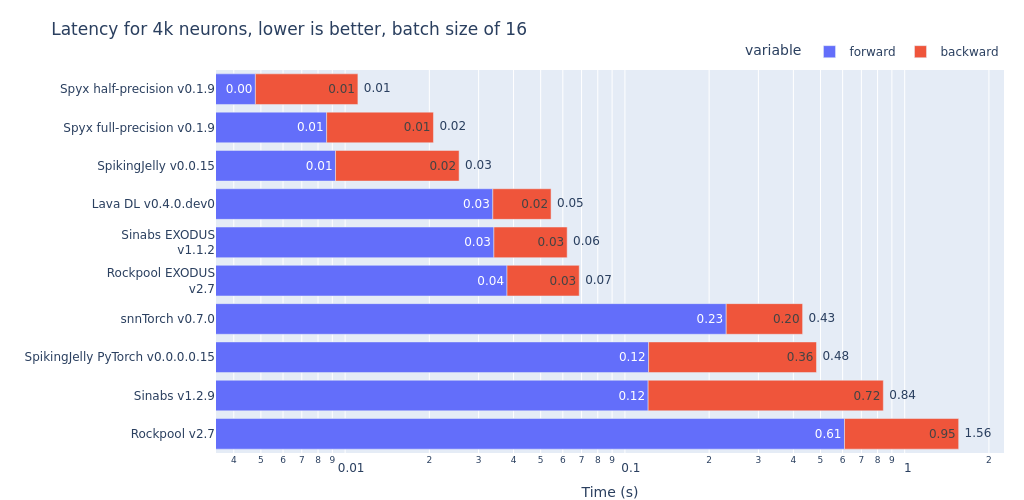
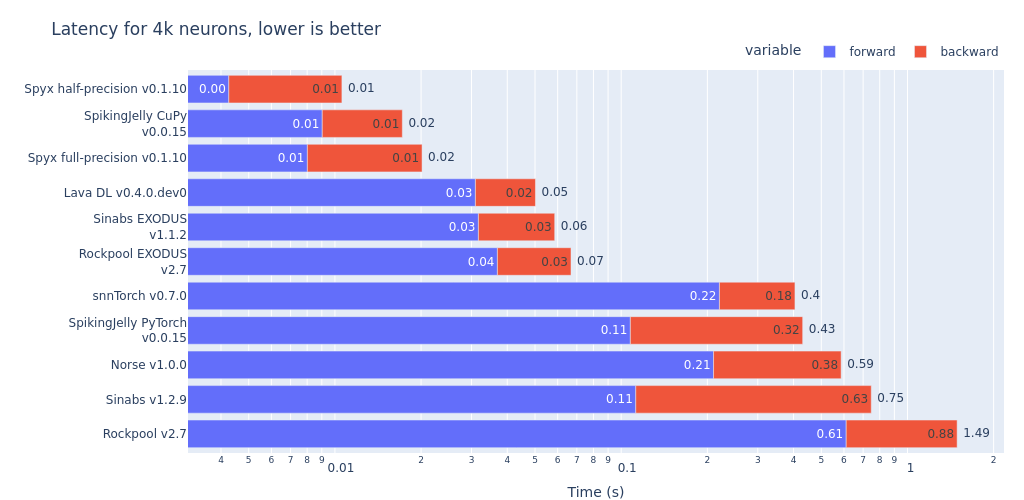
Added and deleted benchmarking images and updated requirements and benchmarking script

Changed region(s): [[0.0312, 0.12, 0.9688, 1.0], [0.375, 0.03, 0.5, 0.09]]

diff --git a/content/english/blog/spiking-neural-network-framework-benchmarking/docker/plot.py b/content/english/blog/spiking-neural-network-framework-benchmarking/docker/plot.py
@@ -12,7 +12,10 @@ df["total"] = df["forward"] + df["backward"]
 df["memory"] = df["memory"] * 1e-6
 df["framework"] = df["framework"].str.replace("<br>", " ")
 df["framework"] = df["framework"].str.replace(
-    "SpikingJelly CuPy v0.0.0.0.15", "SpikingJelly v0.0.15"
+    "SpikingJelly CuPy v0.0.0.0.15", "SpikingJelly CuPy<br>v0.0.15"
+)
+df["framework"] = df["framework"].str.replace(
+    "SpikingJelly PyTorch v0.0.0.0.15", "SpikingJelly PyTorch<br>v0.0.15"
 )
 df["framework"] = df["framework"].str.replace("Rockpool EXODUS", "Rockpool EXODUS<br>")
 df["framework"] = df["framework"].str.replace("Sinabs EXODUS", "Sinabs EXODUS<br>")
@@ -55,7 +58,7 @@ def get_runtime_figure(df, rounding=2, title=""):
         xaxis_title="Time (s)",
     )
     # increase size of facet titles
-    fig.update_annotations(font_size=14)
+    fig.update_annotations(font_size=16)
     return fig
 
 
@@ -136,24 +139,24 @@ if __name__ == "__main__":
 
     ###################
 
-    df512 = df[df["neurons"] == 512]
+    df16k = df[df["neurons"] == 16384]
 
     fig = get_runtime_figure(
-        df512, title=f"Latency for 512 neurons, lower is better{batch_str}"
+        df16k, title=f"Latency for 16k neurons, lower is better{batch_str}"
     )
 
-    fig.write_json("./fig/framework-benchmarking-512.json")
-    fig.write_image("./fig/framework-benchmarking-512.png", width=1024)  # scale=2)
+    fig.write_json("./fig/framework-benchmarking-16k.json")
+    fig.write_image("./fig/framework-benchmarking-16k.png", width=1024)  # scale=2)
     fig.write_image(
-        "./fig/framework-benchmarking-512-header.png", width=1024, height=570
+        "./fig/framework-benchmarking-16k-header.png", width=1024, height=570
     )
     fig.show()
 
     fig = get_memory_figure(
-        df512, title=f"Memory use for 512 neurons, lower is better{batch_str}"
+        df16k, title=f"Memory use for 16k neurons, lower is better{batch_str}"
     )
 
-    fig.write_json("./fig/framework-benchmarking-mem-512.json")
-    fig.write_image("./fig/framework-benchmarking-mem-512.png", width=1024)
-    fig.write_image("./fig/framework-benchmarking-mem-512-header.png", width=1600)
+    fig.write_json("./fig/framework-benchmarking-mem-16k.json")
+    fig.write_image("./fig/framework-benchmarking-mem-16k.png", width=1024)
+    fig.write_image("./fig/framework-benchmarking-mem-16k-header.png", width=1600)
     fig.show()

diff --git a/content/english/blog/spiking-neural-network-framework-benchmarking/docker/run_benchmark.py b/content/english/blog/spiking-neural-network-framework-benchmarking/docker/run_benchmark.py
@@ -499,7 +499,7 @@ benchmarks = {
 if __name__ == "__main__":
     parser = argparse.ArgumentParser()
     parser.add_argument("benchmark", choices=benchmarks.keys())
-    parser.add_argument("batch_size", default=16)
+    parser.add_argument("batch_size")
     args = parser.parse_args()
 
     benchmark = benchmarks[args.benchmark]
@@ -510,9 +510,10 @@ if __name__ == "__main__":
     device = "cuda"
 
     for n_neurons in [
-        512,
+        # 512,
         4096,
         8192,
+        16384,
     ]:  #  1024, 2048, 4096, 8192, 16384,
         prepare_fn, forward_fn, backward_fn, bench_desc = benchmark()
         print("Benchmarking", bench_desc, "with n_neurons =", n_neurons)
